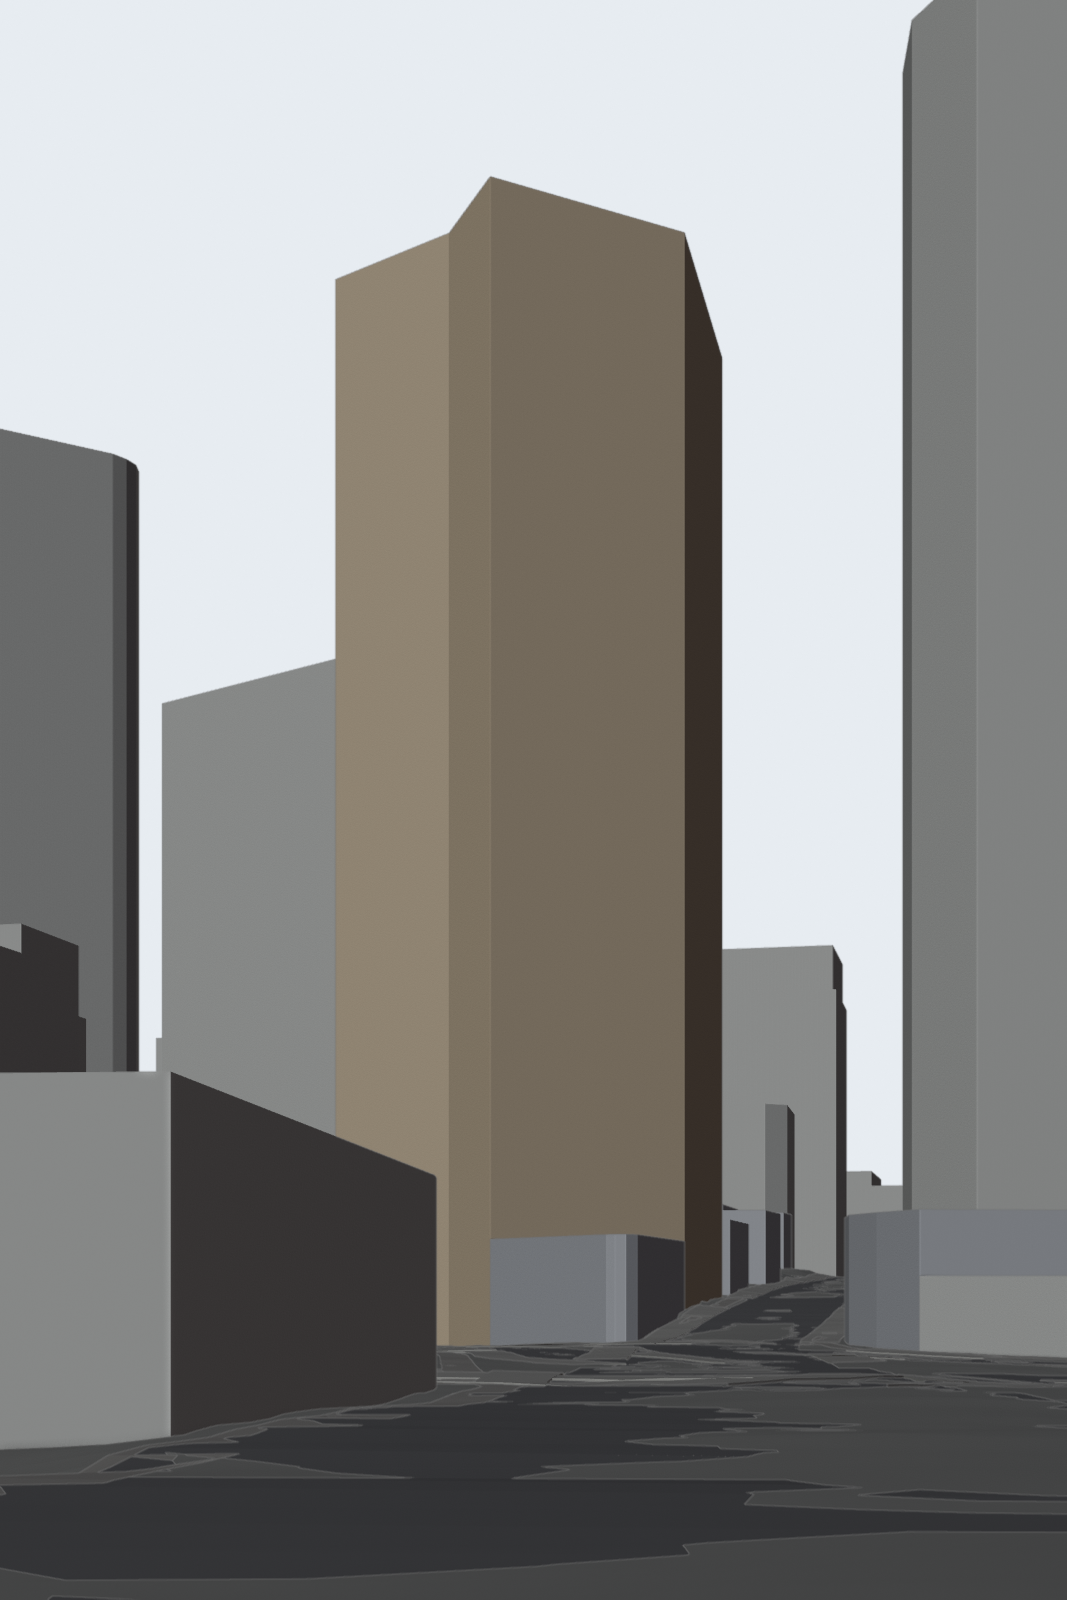
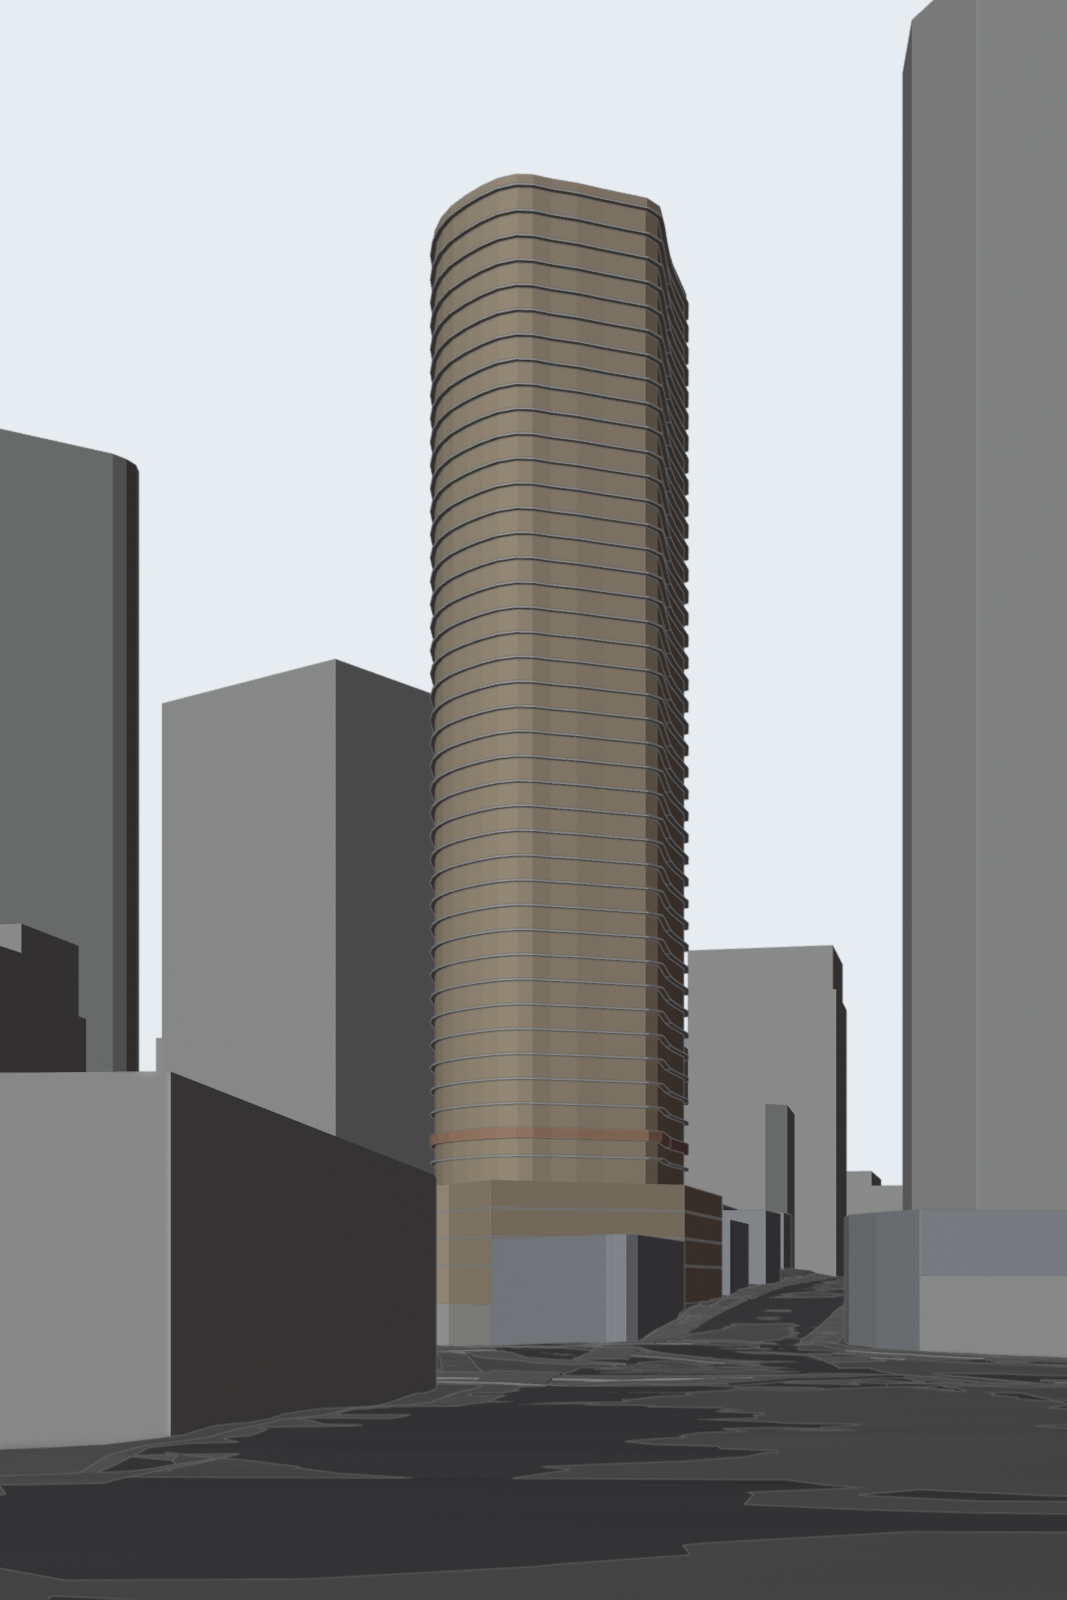
Spire step 2: tower massing, level table and slab pours
- layout.py: tower plate traced from the typical floor plan and fitted to the 2018 roof
  (rotation 40.5 deg, along Ann St), core box, level table (GF, L1-L43, roof; L6 1.25 m
  transfer; 2 pours a level), pour joint line. Hoist marked unknown (John doesn't know).
- spire.py: podium on the lot, storeys, parapet, core, and 88 slab objects named by level and pour.
- preview.py: fit check over the 2018 aerial and a slab/pour view.

Changed region(s): [[0.3093, 0.0938, 0.6804, 0.75], [0.4021, 0.8125, 0.433, 0.8438]]

diff --git a/tools/blender/spire/layout.py b/tools/blender/spire/layout.py
@@ -42,6 +42,42 @@ SPIRE = {
     "completed": "2017-06",
 }
 
+# ---------------------------------------------------------------- Spire massing (step 2)
+# Tower plate traced from the architect's "Typical Floor Plan" (my_photos/spire/Spire-Residences floor
+# plan.jpg, NOT in git): pixel points, image 1414 x 1000, y down. Scale bar 0-10 m = 115 -> 333 px.
+# Slab edge (outer line, balconies included), clockwise from the top-left.
+TOWER_PLAN = {
+    "px": [(300, 128), (400, 112), (500, 118), (600, 124), (700, 124), (800, 118), (900, 110), (960, 108),
+           (1020, 140), (1060, 200), (1100, 260), (1150, 330), (1190, 400), (1225, 450), (1240, 500),
+           (1230, 560), (1200, 620), (1160, 680), (1110, 740), (1050, 790), (980, 830), (900, 860),
+           (800, 880), (720, 892), (650, 878), (580, 850), (500, 810), (420, 770), (350, 730), (290, 690),
+           (245, 640), (215, 580), (205, 500), (215, 420), (235, 330), (255, 250), (275, 180)],
+    "core_px": (555, 365, 860, 560),        # lift + stair core box (x0, y0, x1, y1)
+    "px_per_m": 25.5,             # scale bar reads 21.8 px/m, but the 2018 roof is ~16% smaller: fitted
+    # Plan +x (the straight top edge) runs along Ann St, 40.5 deg from east. Checked on the roof plan
+    # vs aerial_2018: pool on the E side, plant on the NW side, pointed corner to the S.
+    "rotation_deg": 40.5,
+    # Where the plate's centroid sits in the local frame: roof centroid read from aerial_2018_site160m
+    # (lean of the roof ignored, OSM outlines of the neighbours sit on their roofs too). Tuned by overlay.
+    "centre_xy": (-2.5, 2.5),
+}
+# Levels. Facts (John's notes): 43 suspended PT slabs, 2 pours each, L6 = 1250 mm transfer slab.
+# Not from drawings (rough, from the podium elevations and the OSM height): podium top ~11.5 m over
+# Ann St; ground floor 4.5 m; L1-L6 3.2 m; typical floor-to-floor solved so the roof slab lands at
+# the OSM height. Flagged in the metadata as solved, not measured.
+LEVELS = {
+    "ground_floor_m": 4.5,
+    "podium_ftf_m": 3.2,
+    "podium_levels": 3,            # L1-L3 fill the whole lot (OSM footprint); tower plate from L4 up
+    "transfer_level": 6,
+    "slab_m": 0.20,                # typical PT slab
+    "transfer_m": 1.25,
+    "top_level": 43,
+    "roof_over_top_m": 3.0,        # roof slab above L43
+    "parapet_m": 1.2,
+    "pour_split": "plan x = 0",    # 2 pours a level: split across the short axis through the core
+}
+
 # Default road widths (kerb to kerb, metres) by OSM highway class when the way has no width/lanes tag.
 ROAD_WIDTH = {"primary": 14.0, "secondary": 12.0, "tertiary": 10.0, "secondary_link": 7.0,
               "tertiary_link": 7.0, "unclassified": 7.0, "residential": 7.0, "service": 4.5,
@@ -86,6 +122,7 @@ HOIST = {
     "car_size_m": (3.2, 1.5),
     "face": "NW (Ann St)",
     "confidence": "low",
+    "john": "John does not know where the hoist was (14 Nov 2026). Keep as a placeholder.",
     "evidence": [
         "aerial_2017_site160m_0p1m.jpg: small box sticking out past the roof edge on the NW face, north end "
         "(crop px ~690,615) - reads as a hoist mast top",
@@ -286,3 +323,74 @@ AERIAL_SITE = {"half": 80.0, "px": 1600, "m_per_px": 0.1}     # aerial_YYYY_site
 def local_to_aerial_px(x, y, spec=AERIAL_800):
     """Local metres -> (col, row) pixel in a local-frame aerial crop (row 0 = north edge)."""
     return (x + spec["half"]) / spec["m_per_px"], (spec["half"] - y) / spec["m_per_px"]
+
+
+# ================================================================ Spire massing helpers
+def plan_to_local(px, py):
+    """Floor-plan pixel -> local metres (rotated and placed per TOWER_PLAN)."""
+    P = TOWER_PLAN
+    cx, cy = _plan_centroid_px()
+    u = (px - cx) / P["px_per_m"]
+    v = -(py - cy) / P["px_per_m"]          # image y is down
+    a = math.radians(P["rotation_deg"])
+    x0, y0 = P["centre_xy"]
+    return (x0 + u * math.cos(a) - v * math.sin(a), y0 + u * math.sin(a) + v * math.cos(a))
+
+
+def _plan_centroid_px():
+    pts = TOWER_PLAN["px"]
+    a = cx = cy = 0.0
+    for i in range(len(pts)):
+        (x1, y1), (x2, y2) = pts[i], pts[(i + 1) % len(pts)]
+        c = x1 * y2 - x2 * y1
+        a += c
+        cx += (x1 + x2) * c
+        cy += (y1 + y2) * c
+    a *= 0.5
+    return cx / (6 * a), cy / (6 * a)
+
+
+def tower_outline():
+    return [plan_to_local(*p) for p in TOWER_PLAN["px"]]
+
+
+def core_outline():
+    x0, y0, x1, y1 = TOWER_PLAN["core_px"]
+    return [plan_to_local(x, y) for x, y in ((x0, y1), (x1, y1), (x1, y0), (x0, y0))]
+
+
+def pour_split_line():
+    """Two local points on the pour joint (plan x through the plate centroid, along plan y)."""
+    cx, cy = _plan_centroid_px()
+    return plan_to_local(cx, cy - 600), plan_to_local(cx, cy + 600)
+
+
+def spire_base_ahd():
+    """Ground floor level: ground at the middle of the Ann St frontage (main entry side)."""
+    return round(ground_z(*TRUCK_GATE["centre_xy"]), 2)
+
+
+def spire_levels():
+    """List of levels, bottom up: name, number, kind, top-of-slab AHD, slab thickness, pours."""
+    Lv = LEVELS
+    base = spire_base_ahd()
+    roof = base + SPIRE["height_m"] - Lv["parapet_m"]
+    out = [{"name": "GF", "n": 0, "kind": "ground", "top_ahd": base, "slab_m": 0.3, "pours": 1}]
+    z = base + Lv["ground_floor_m"]
+    for n in range(1, Lv["transfer_level"] + 1):
+        kind = "podium" if n <= Lv["podium_levels"] else ("transfer" if n == Lv["transfer_level"] else "tower")
+        out.append({"name": "L%02d" % n, "n": n, "kind": kind, "top_ahd": round(z, 3),
+                    "slab_m": Lv["transfer_m"] if kind == "transfer" else Lv["slab_m"], "pours": 2})
+        z += Lv["podium_ftf_m"]
+    z_t = out[-1]["top_ahd"]
+    n_typ = Lv["top_level"] - Lv["transfer_level"]          # L7 .. L43
+    ftf = (roof - Lv["roof_over_top_m"] - z_t) / n_typ
+    for n in range(Lv["transfer_level"] + 1, Lv["top_level"] + 1):
+        z_t += ftf
+        out.append({"name": "L%02d" % n, "n": n, "kind": "tower", "top_ahd": round(z_t, 3),
+                    "slab_m": Lv["slab_m"], "pours": 2})
+    out.append({"name": "RF", "n": Lv["top_level"] + 1, "kind": "roof", "top_ahd": round(roof, 3),
+                "slab_m": Lv["slab_m"], "pours": 1})
+    for lv in out:
+        lv["typical_ftf_solved_m"] = round(ftf, 3)
+    return out

diff --git a/tools/blender/spire/spire.py b/tools/blender/spire/spire.py
@@ -1,0 +1,95 @@
+"""Spire itself: podium on the whole lot, tower plate from the typical floor plan, lift core, and every
+slab as its own object split into its pours (SLAB_L07_A / SLAB_L07_B). Numbers from layout.py."""
+import layout as L
+import common as C
+
+
+def ring_ccw(ring):
+    return ring if C.signed_area(ring) > 0 else ring[::-1]
+
+
+def inset(ring, d):
+    """Move a closed CCW ring inwards by d (vertex-normal offset; fine for this smooth plate)."""
+    ring = ring_ccw(ring)
+    closed = ring + ring[:2]
+    off = C.offset_line([ring[-1]] + closed, d)[1:len(ring) + 1]
+    return off
+
+
+def clip(ring, a, b, keep_left=True):
+    """Sutherland-Hodgman: keep the part of `ring` left (or right) of the line a -> b."""
+    def side(p):
+        s = (b[0] - a[0]) * (p[1] - a[1]) - (b[1] - a[1]) * (p[0] - a[0])
+        return s if keep_left else -s
+    out = []
+    n = len(ring)
+    for i in range(n):
+        p, q = ring[i], ring[(i + 1) % n]
+        sp, sq = side(p), side(q)
+        if sp >= 0:
+            out.append(p)
+        if (sp >= 0) != (sq >= 0):
+            t = sp / (sp - sq)
+            out.append((p[0] + (q[0] - p[0]) * t, p[1] + (q[1] - p[1]) * t))
+    return out
+
+
+def lot_outline():
+    o = L.osm()
+    return C.clean_ring(o["line"](o["ways"][L.SPIRE["osm_way"]]))
+
+
+def build():
+    col = C.collection("spire")
+    levels = L.spire_levels()
+    lot = ring_ccw(lot_outline())
+    plate = ring_ccw(L.tower_outline())
+    a, b = L.pour_split_line()
+    ground_min = min(L.ground_z(x, y) for x, y in lot)
+    objs, slabs = [], []
+
+    def outline_for(lv):
+        return lot if lv["kind"] in ("ground", "podium") else plate
+
+    # slabs, one object per pour
+    for lv in levels:
+        ring = outline_for(lv)
+        z1 = lv["top_ahd"]
+        z0 = z1 - lv["slab_m"] if lv["kind"] != "ground" else ground_min - 0.5
+        key = "transfer" if lv["kind"] == "transfer" else "slab"
+        parts = [("A", clip(ring, a, b, True)), ("B", clip(ring, a, b, False))] if lv["pours"] == 2 else [("", ring)]
+        for tag, part in parts:
+            if len(part) < 3:
+                continue
+            buf = C.MeshBuf()
+            buf.prism(part, z0, z1)
+            name = "SLAB_%s%s" % (lv["name"], "_" + tag if tag else "")
+            ob = buf.object(name, col, key if tag != "B" else key + "_b")
+            ob["level"] = lv["name"]
+            ob["pour"] = tag or "1"
+            ob["top_ahd"] = z1
+            ob["slab_m"] = lv["slab_m"]
+            slabs.append(ob.name)
+    # storeys (glass line 0.6 m in from the slab edge), one object for the whole tower
+    st = C.MeshBuf()
+    for lo, hi in zip(levels[:-1], levels[1:]):
+        ring = outline_for(lo)
+        ring = inset(ring, 0.6) if ring is plate else ring
+        st.prism(ring, lo["top_ahd"], hi["top_ahd"] - hi["slab_m"])
+    objs.append(st.object("SPIRE_storeys", col, "spire").name)
+    # parapet ring on the roof and the lift core
+    top = levels[-1]["top_ahd"]
+    pb = C.MeshBuf()
+    pb.prism(inset(plate, 0.3), top, top + L.LEVELS["parapet_m"])
+    objs.append(pb.object("SPIRE_parapet", col, "spire").name)
+    cb = C.MeshBuf()
+    cb.prism(L.core_outline(), ground_min - 0.5, top + 3.5)
+    objs.append(cb.object("SPIRE_core", col, "core").name)
+    typ = levels[-1]["typical_ftf_solved_m"]
+    return {"module": "spire", "objects": objs, "slab_objects": len(slabs), "levels": len(levels),
+            "base_ahd": levels[0]["top_ahd"], "roof_ahd": top, "typical_ftf_m": typ,
+            "transfer": next(lv for lv in levels if lv["kind"] == "transfer"),
+            "plate_area_m2": round(C.signed_area(plate), 1), "lot_area_m2": round(C.signed_area(lot), 1),
+            "pour_split": [[round(v, 2) for v in a], [round(v, 2) for v in b]],
+            "note": "Plate from the typical floor plan, placed by aerial overlay. Floor heights are solved from "
+                    "the OSM height (typical %.2f m floor to floor is low: check against drawings)." % typ}

diff --git a/tools/blender/spire/preview.py b/tools/blender/spire/preview.py
@@ -154,7 +154,7 @@ def cam_view(c, mode):
 def main():
     argv = sys.argv[sys.argv.index("--") + 1:] if "--" in sys.argv else []
     mode = "mono" if "mono" in argv else ("look" if "look" in argv else "clay")
-    what = [a for a in argv if a in ("top", "site", "cams")] or ["top", "site", "cams"]
+    what = [a for a in argv if a in ("top", "site", "fit", "slabs", "cams")] or ["top", "site", "fit", "slabs", "cams"]
     os.makedirs(L.DOCS, exist_ok=True)
     build_all.build_all()
     setup(mode)
@@ -168,6 +168,20 @@ def main():
         times["site"] = top_overlay("site", L.SITE_VIEW["half"],
                                     L.aerial_path(L.SITE_VIEW["aerial_year"], "site160m_0p1m"),
                                     L.SITE_VIEW["aerial_year"], alpha=0.6)
+    if "fit" in what:     # finished tower over the 2018 aerial: checks the plate position
+        setup("look")
+        hide(["logistics"])
+        times["fit"] = top_overlay("site", L.SITE_VIEW["half"], L.aerial_path(2018, "site160m_0p1m"), 2018, alpha=0.5)
+        hide(["logistics"], False)
+    if "slabs" in what:   # storeys hidden: every slab, pour A cream / pour B blue, L6 transfer orange
+        setup("look")
+        st = bpy.data.objects.get("SPIRE_storeys")
+        st.hide_render = True
+        hide(["logistics", "buildings"])
+        times["slabs"] = cam_view({"id": "spire_slabs", "pos": (-125.0, 150.0, 110.0), "look_at": (-3.0, 2.0, 70.0),
+                                   "lens_mm": 50.0, "portrait": True}, "pours")
+        st.hide_render = False
+        hide(["logistics", "buildings"], False)
     if "cams" in what:
         setup(mode)
         for c in L.CAMERAS:

diff --git a/tools/blender/spire/buildings.py b/tools/blender/spire/buildings.py
@@ -38,6 +38,8 @@ def build():
         if not is_part and any(C.point_in_ring(px, py, ring) for _, _, _, px, py in parts):
             skipped += 1          # drawn by its parts instead
             continue
+        if oid == L.SPIRE["osm_way"]:
+            continue              # Spire is built by spire.py
         h, src = L.building_height(t)
         minh = L.tag_float(t, "min_height") or 0.0
         z0 = min(L.ground_z(x, y) for x, y in ring)
@@ -45,8 +47,7 @@ def build():
         buf.prism(ring, z0 - (0.5 if minh == 0 else -minh), z0 + h)
         src_count[src.split(" x ")[0]] += 1
     objs = []
-    for buf, name, key in ((tagged, "buildings_tagged", "building"), (guessed, "buildings_height_guess", "building_guess"),
-                           (spire, "SPIRE", "spire")):
+    for buf, name, key in ((tagged, "buildings_tagged", "building"), (guessed, "buildings_height_guess", "building_guess")):
         ob = buf.object(name, col, key)
         if ob:
             objs.append(ob.name)

diff --git a/tools/blender/spire/common.py b/tools/blender/spire/common.py
@@ -15,6 +15,11 @@ COLOURS = {
     "building": (0.80, 0.80, 0.78, 1),
     "building_guess": (0.70, 0.72, 0.78, 1),   # height not tagged in OSM
     "spire": (0.93, 0.74, 0.52, 1),
+    "slab": (0.90, 0.88, 0.84, 1),         # pour A
+    "slab_b": (0.80, 0.84, 0.90, 1),       # pour B (slightly blue so the joint reads)
+    "transfer": (0.95, 0.55, 0.35, 1),
+    "transfer_b": (0.90, 0.50, 0.45, 1),
+    "core": (0.55, 0.52, 0.50, 1),
     "bridge": (0.35, 0.45, 0.55, 1),
     "crane": (0.95, 0.70, 0.10, 1),
     "hoist": (0.20, 0.55, 0.85, 1),

diff --git a/tools/blender/spire/build_all.py b/tools/blender/spire/build_all.py
@@ -13,9 +13,9 @@ sys.path.insert(0, os.path.dirname(os.path.abspath(__file__)))
 import bpy  # noqa: E402
 
 import layout as L  # noqa: E402
-import ground, streets, buildings, landmarks, logistics  # noqa: E402,E401
+import ground, streets, buildings, spire, landmarks, logistics  # noqa: E402,E401
 
-MODULES = [ground, streets, buildings, landmarks, logistics]
+MODULES = [ground, streets, buildings, spire, landmarks, logistics]
 
 
 def clear():

diff --git a/tools/blender/spire/logistics.py b/tools/blender/spire/logistics.py
@@ -7,7 +7,7 @@ import common as C
 
 def build():
     col = C.collection("logistics")
-    top = L.ground_z(0, 0) + L.SPIRE["height_m"]
+    top = L.spire_levels()[-1]["top_ahd"]
     objs = []
     # crane
     cr = L.CRANE

diff --git a/tools/blender/spire/README.md b/tools/blender/spire/README.md
@@ -19,6 +19,9 @@ Blender 4.5 (the PC's install). Run from the repo root:
 - `streets.py`: OSM carriageways, footpaths with 150 mm kerbs, footways.
 - `buildings.py`: OSM footprints extruded to tagged height (Spire = its own object, warm clay;
   untagged = 12 m, blue-grey).
+- `spire.py`: Spire itself (step 2): podium on the whole lot (GF-L3), tower plate traced from the typical
+  floor plan and fitted to the 2018 roof, lift core, and every slab as its own object split into its two
+  pours (`SLAB_L07_A`, `SLAB_L07_B`; custom props level, pour, top_ahd, slab_m). L6 = 1.25 m transfer slab.
 - `landmarks.py`: Story Bridge line (rough deck + truss silhouette for the skyline).
 - `logistics.py`: crane, hoist, truck gate and site shed markers.
 - `build_all.py`: clears the scene, runs every `build()`, writes `docs/spire/blockout_meta.json`.
@@ -36,10 +39,18 @@ Each module's `build()` returns a metadata dict (objects, counts, sources, notes
   three of John's street photos (spots estimated, no GPS in the photos). Crane hidden: photos are post-2017.
 - `cam_flyby_crane_clay.png`: from the SW fly-by photo during the build, crane shown.
 
+## Step 2 results (docs/spire/)
+
+- `site_clay_over_2018.png`: finished tower plate over the 2018 aerial (roof with the pool) - placement check.
+- `spire_slabs_pours.png`: storeys hidden, 88 slab pours + core; pour joint seen end-on, L6 transfer in orange.
+- The street views now show the rounded tower on its podium.
+
 ## Known gaps (next steps)
 
-- Spire is one prism of the whole OSM footprint (podium + tower). Real tower is a rounded column on a
-  sloped brick podium: needs its own massing from the floor plans.
+- Floor heights are solved from the OSM height (typical 2.88 m floor to floor - low). Need a real section.
+- The plate scale is fitted to the 2018 roof (25.5 px/m), not the drawing's scale bar (21.8 px/m).
+- Pour joint position is a guess (straight across the short axis through the core).
+- Podium is a plain prism of the lot; the sloped brick face and the podium setbacks are not modelled.
 - 223 of 325 buildings have no height in OSM (12 m guess). Heights from LiDAR next.
 - Footpath width is a default (3.5 m), not measured. Kerb lines can come from council parking lines.
 - Hoist position is a low-confidence read; ask John.
